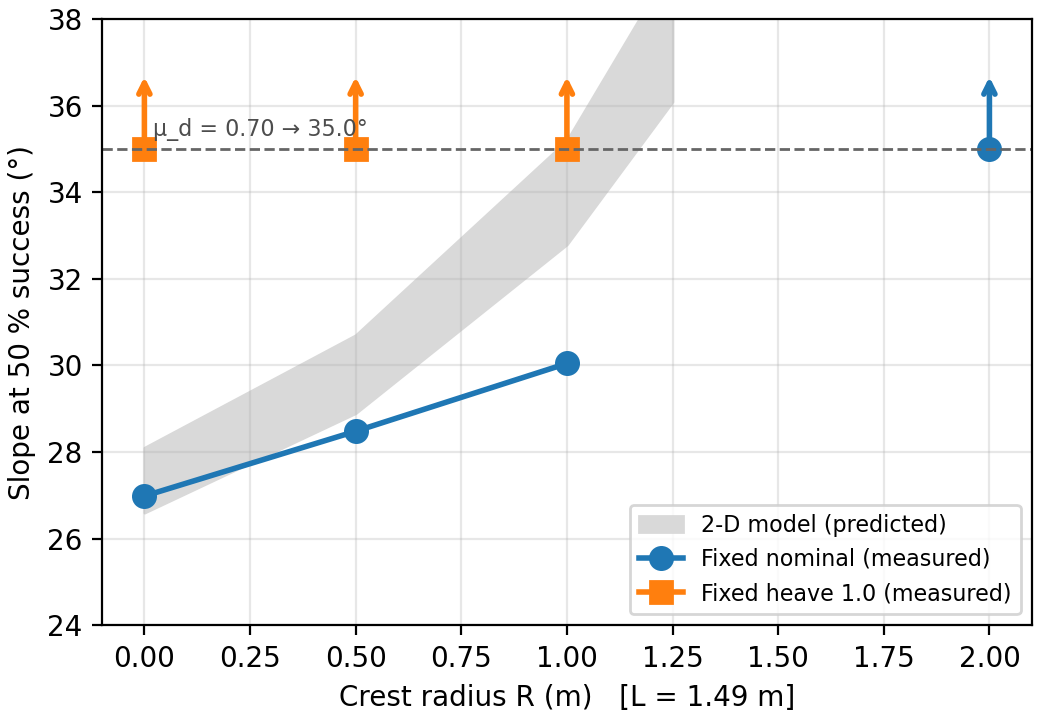
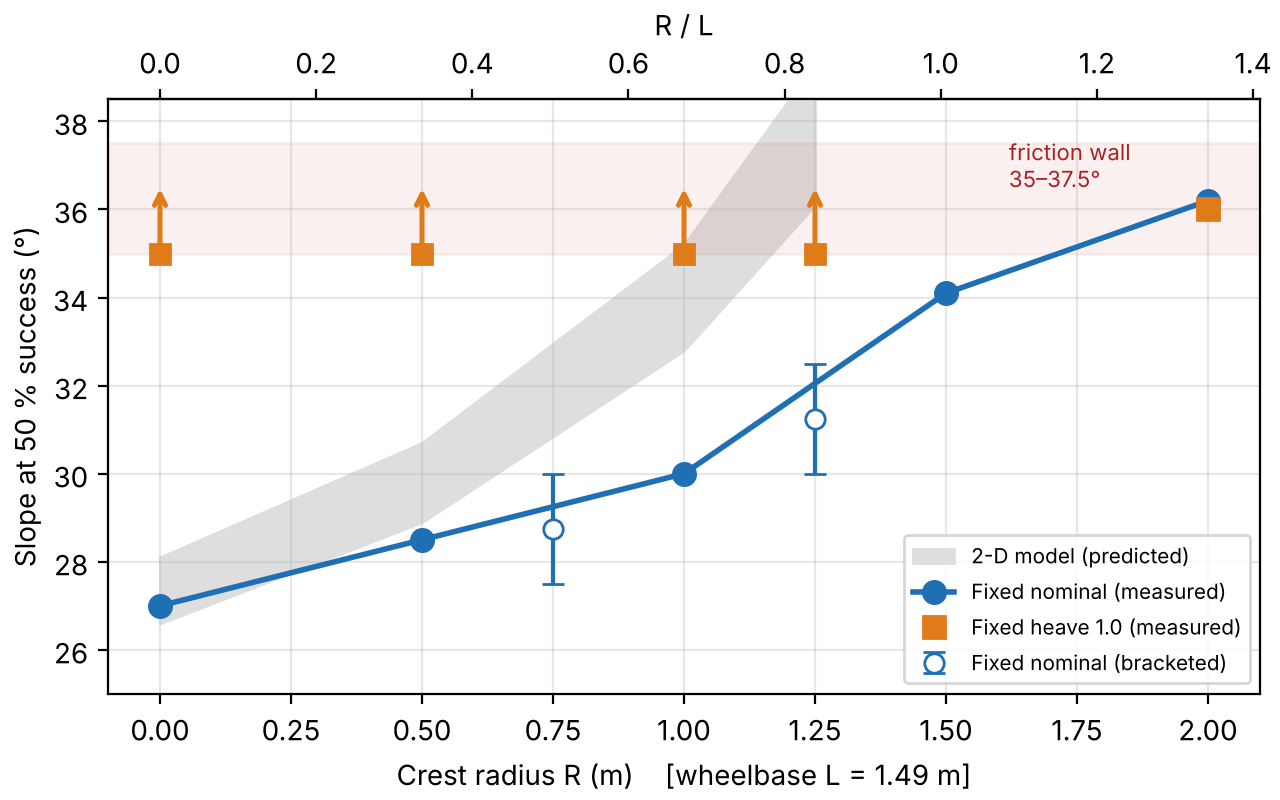
crest note: defense experiments, friction wall, updated Fig. C4
Claude-Session: https://claude.ai/code/session_01QmcofTmHzCaGBM6kLiAEu1

diff --git a/crest-geometry.html b/crest-geometry.html
@@ -147,7 +147,7 @@
     <li><strong>능동 자세가 필요한 영역은 대각선 띠입니다.</strong> 차이 패널에서 +50 %p 이상인 칸은 R = 0에서 27.5~35°, R = 0.5 m에서 30~35°, R = 1 m에서 32.5~35°이고, R = 2 m에서는 사라집니다. 크레스트가 둥글수록 띠가 가파른 쪽으로 밀리다가 R/L ≈ 1.34에서 없어집니다.</li>
     <li><strong>높이만 올려서는 35°가 부족합니다.</strong> heave 1.0은 32.5°까지 모든 R에서 100 %이지만 35°에서는 69.2 % (R = 0), 78.5 % (0.5 m), 80.3 % (1 m), 82.8 % (2 m)에서 멈춥니다. R에 거의 무관하므로 이 실패는 크레스트가 아니라 높은 자세 자체에서 옵니다. 학습 정책(최고 90.9 %)이 나아지는 구간이 여기입니다.</li>
     <li><strong>필요 없는 곳에서 높이면 손해입니다.</strong> R = 2 m, 35°에서 heave 1.0은 82.8 %로 고정 기본 자세(96.8 %)보다 14 %p 낮습니다(신뢰구간 ±3.4 %p의 네 배). 무게중심이 올라가 앞바퀴 하중이 빠지는 쪽으로 해석되며, 바퀴 하중 기록으로 확인합니다. 능동 자세는 "항상 올리기"가 아니라 <strong>배 걸림 영역에서만 쓰고 나머지에서는 내려야</strong> 한다는 근거입니다.</li>
-    <li><strong>35° 실패는 마찰만의 문제가 아니었습니다.</strong> 동마찰 0.70의 한계각이 35.0°이지만 R = 2 m 고정 자세가 35°에서 96.8 % 성공했습니다. 실제 마찰 벽은 35°와 정마찰 한계 42.0° 사이에 있으며, R = 2 m 37.5°·40° 평가로 확인합니다.</li>
+    <li><strong>35° 실패는 마찰만의 문제가 아니었습니다.</strong> 동마찰 0.70의 한계각이 35.0°이지만 R = 2 m 고정 자세가 35°에서 96.8 % 성공했습니다. R = 2 m에서 37.5°·40°는 고정 기본·heave 모두 0 %였으므로 실제 마찰 벽은 <strong>35~37.5°</strong>(보간 약 36°)입니다.</li>
   </ul>
   <figure class="fig">
     <video src="assets/crest-s30-R0-vs-R2.mp4" poster="assets/crest-s30-R0-vs-R2.jpg" controls muted loop playsinline preload="metadata"></video>
@@ -159,9 +159,9 @@
   </figure>
   <figure class="fig">
     <img src="assets/crest-wall-measured.png" alt="크레스트 반경별 50% 성공 경사, 예측 대비 실측">
-    <figcaption><b>Fig. C4</b> 성공률 50 % 경사(선형 보간)를 2-D 모델 예측 범위(회색)와 비교. 화살표는 측정 범위(35°)에서 50 % 아래로 떨어지지 않은 경우입니다.</figcaption>
+    <figcaption><b>Fig. C4</b> 고정 기본 자세의 성공률 50 % 경사(인접 측정값 선형 보간)를 2-D 모델 예측 범위(회색)와 비교. 빈 원은 측정 칸 안에서 50 %를 지나지 않아 범위로만 정해진 값(R = 0.75, 1.25 m), 화살표는 heave 1.0이 35°에서도 50 % 이상인 경우입니다. 붉은 띠는 R = 2 m에서 확인한 마찰 벽(35~37.5°).</figcaption>
   </figure>
-  <div class="aside"><p><strong>모델 오차:</strong> 실측 50 % 경사는 R = 0에서 27.0° (예측 26.6~28.1°), R = 0.5 m에서 28.5° (28.9~30.7°), R = 1 m에서 30.0° (32.8~35.2°)입니다. 둥글수록 모델이 2~3° 낙관적이고, 예측했던 "R ≈ 1.07 m에서 벽이 35°에 도달"은 맞지 않았습니다. 실제 전환점은 R = 1~2 m 사이이며 R = 1.5 m 평가로 좁힙니다. 원인 후보는 ① 지형 격자 0.1 m가 둥근 크레스트를 계단처럼 만드는 것, ② 모델에 없는 서스펜션 처짐과 바퀴 미끄러짐입니다. 논문에서는 2-D 모델을 "벽의 상한"으로 씁니다.</p></div>
+  <div class="aside"><p><strong>모델 오차:</strong> 실측 50 % 경사는 R = 0에서 27.0° (예측 26.6~28.1°), R = 0.5 m에서 28.5° (28.9~30.7°), R = 1 m에서 30.0° (32.8~35.2°)입니다. 둥글수록 모델이 2~3° 낙관적이고, 예측했던 "R ≈ 1.07 m에서 벽이 35°에 도달"은 맞지 않았습니다. R = 1.5 m(R/L = 1.0)에서 벽이 34.1°, R = 2 m에서 36.2°로 마찰 벽에 닿습니다. 즉 <strong>R/L ≈ 1.0~1.3에서 배 걸림 벽이 마찰 벽과 만납니다.</strong> 원인 후보는 ① 지형 격자 0.1 m가 둥근 크레스트를 계단처럼 만드는 것, ② 모델에 없는 서스펜션 처짐과 바퀴 미끄러짐입니다. 논문에서는 2-D 모델을 "벽의 상한"으로 씁니다.</p></div>
 
   <h3>학습 정책: 크레스트 반경을 섞어 재학습 (CrestMix)</h3>
   <p>날카로운 크레스트로만 학습한 PPO 정책(시드 6, 3, 4)을 R ∈ [0, 2] m 무작위 크레스트에서 300 반복 더 학습한 뒤 같은 조건에서 평가했습니다.</p>
@@ -181,6 +181,26 @@
     <li><strong>R = 2 m, 35°에서 heave의 손해(−14 %p)가 정책에는 없습니다.</strong> 고정 기본 자세(96.8 %)보다도 높습니다. 필요 없는 곳에서 자세를 높이지 않는 행동을 학습했는지는 관절각 기록으로 확인합니다.</li>
     <li><strong>날카로운 크레스트 35°는 오히려 나빠졌습니다.</strong> 재학습 전 같은 시드의 R = 0, 35° 성공률은 90.9 / 88.0 / 86.2 %였는데, 재학습 후 20.2 / 38.7 / 69.7 %입니다. 쉬운 둥근 크레스트에 맞춰지며 가장 어려운 조건을 잊은 것으로 보입니다. 논문에는 이 trade-off를 그대로 보고하고, 대응(R = 0 비율을 높인 재학습)은 후속 과제로 둡니다.</li>
     <li><strong>35°는 마찰 벽이 아닙니다.</strong> R = 2 m에서 정책이 35°를 99.6 % 이상 오르므로, 35° 성공률 하락은 크레스트 탓입니다(동마찰 한계각 35.0°는 바퀴가 이미 미끄러지는 경우의 값).</li>
+  </ul>
+
+  <h3>방어 실험</h3>
+  <div class="table-wrap"><table>
+    <tr><th>실험</th><th>조건</th><th>고정 기본</th><th>heave 1.0</th><th>판정</th></tr>
+    <tr><td rowspan="4">전환 구간 보강</td><td>R = 0.75 m, 30°</td><td class="n">32.8</td><td class="n">100</td><td rowspan="4">R이 커질수록 단조 증가. R = 1.5 m: 30° 93.5, 32.5° 64.3, 35° 42.1</td></tr>
+    <tr><td>R = 0.75 m, 32.5°</td><td class="n">1.8</td><td class="n">100</td></tr>
+    <tr><td>R = 1.25 m, 32.5°</td><td class="n">30.0</td><td class="n">100</td></tr>
+    <tr><td>R = 1.25 m, 35°</td><td class="n">20.4</td><td class="n">82.3</td></tr>
+    <tr><td rowspan="4">마찰 μ<sub>d</sub> 0.6 (한계각 31.0°)</td><td>R = 2 m, 27.5°</td><td class="n">100</td><td class="n">100</td><td rowspan="2">크레스트 영향이 없는 R = 2 m에서 32.5° 성공률이 100 → 29.0 %로 떨어짐: 마찰 벽이 계산대로 31°쪽으로 내려옴</td></tr>
+    <tr><td>R = 2 m, 32.5°</td><td class="n">29.0</td><td class="n">0</td></tr>
+    <tr><td>R = 0, 27.5°</td><td class="n">2.2</td><td class="n">100</td><td rowspan="2">날카로운 크레스트에서는 마찰이 낮을수록 걸린 차체를 밀어 넘기기 더 어려움(38.6 → 2.2 %)</td></tr>
+    <tr><td>R = 0, 32.5°</td><td class="n">0</td><td class="n">0</td></tr>
+    <tr><td rowspan="2">진입 속도</td><td>R = 0, 27.5°, 0.2 m/s</td><td class="n">0</td><td>—</td><td rowspan="2">기본(무작위 속도)은 38.6 %. 빠를수록 관성으로 크레스트를 넘음</td></tr>
+    <tr><td>R = 0, 27.5°, 0.4 m/s</td><td class="n">77.9</td><td>—</td></tr>
+  </table></div>
+  <ul>
+    <li><strong>두 실패 원인이 분리됩니다.</strong> 크레스트가 없는 R = 2 m의 벽은 마찰계수를 따라 움직이고(0.7 → 약 36°, 0.6 → 32.5° 아래), 날카로운 크레스트의 벽은 그보다 훨씬 낮은 곳(27°)에 있습니다.</li>
+    <li><strong>마찰이 낮으면 heave도 손해를 봅니다.</strong> μ<sub>d</sub> 0.6, R = 2 m, 32.5°에서 고정 기본 29.0 %, heave 0 %. 무게중심을 올리면 견인 여유가 줄어든다는 앞의 해석(35°, −14 %p)과 같은 방향입니다.</li>
+    <li><strong>속도는 위험 요소이자 근거입니다.</strong> 같은 조건에서 0.2 m/s는 0 %, 0.4 m/s는 77.9 %입니다. 준정적 2-D 모델은 느린 쪽에 해당하고, 실제 행성 로버는 느리게 움직이므로 저속에서 크레스트 문제는 오히려 더 심각합니다. 논문에서는 속도를 고정한 조건과 함께 이 민감도를 보고합니다.</li>
   </ul>
 
   <h2><span class="no">05</span>실험 설계</h2>
